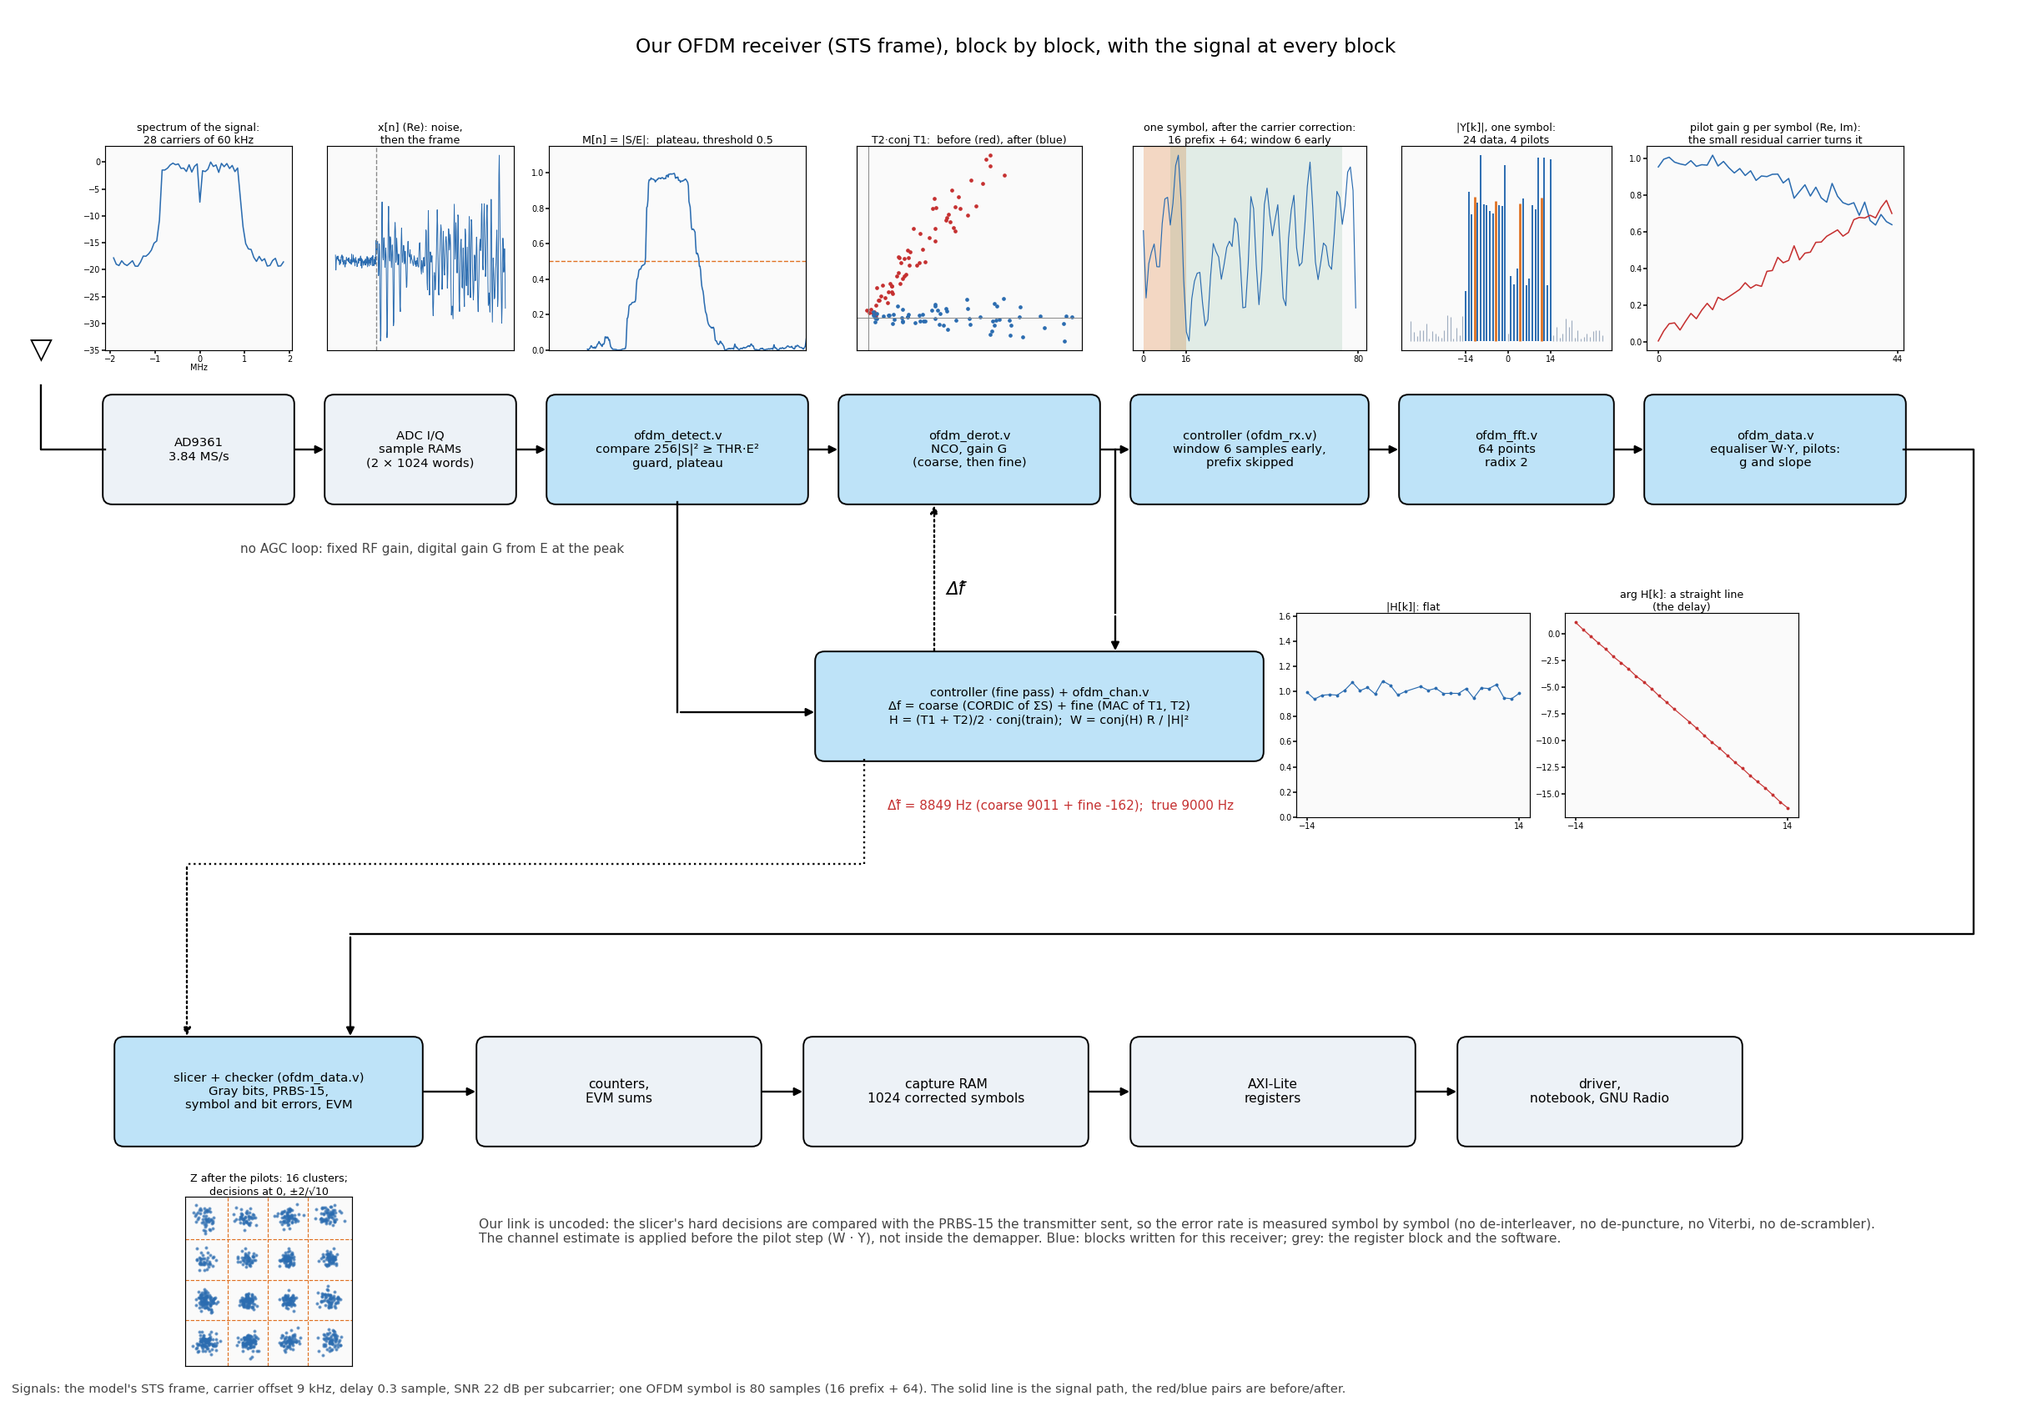
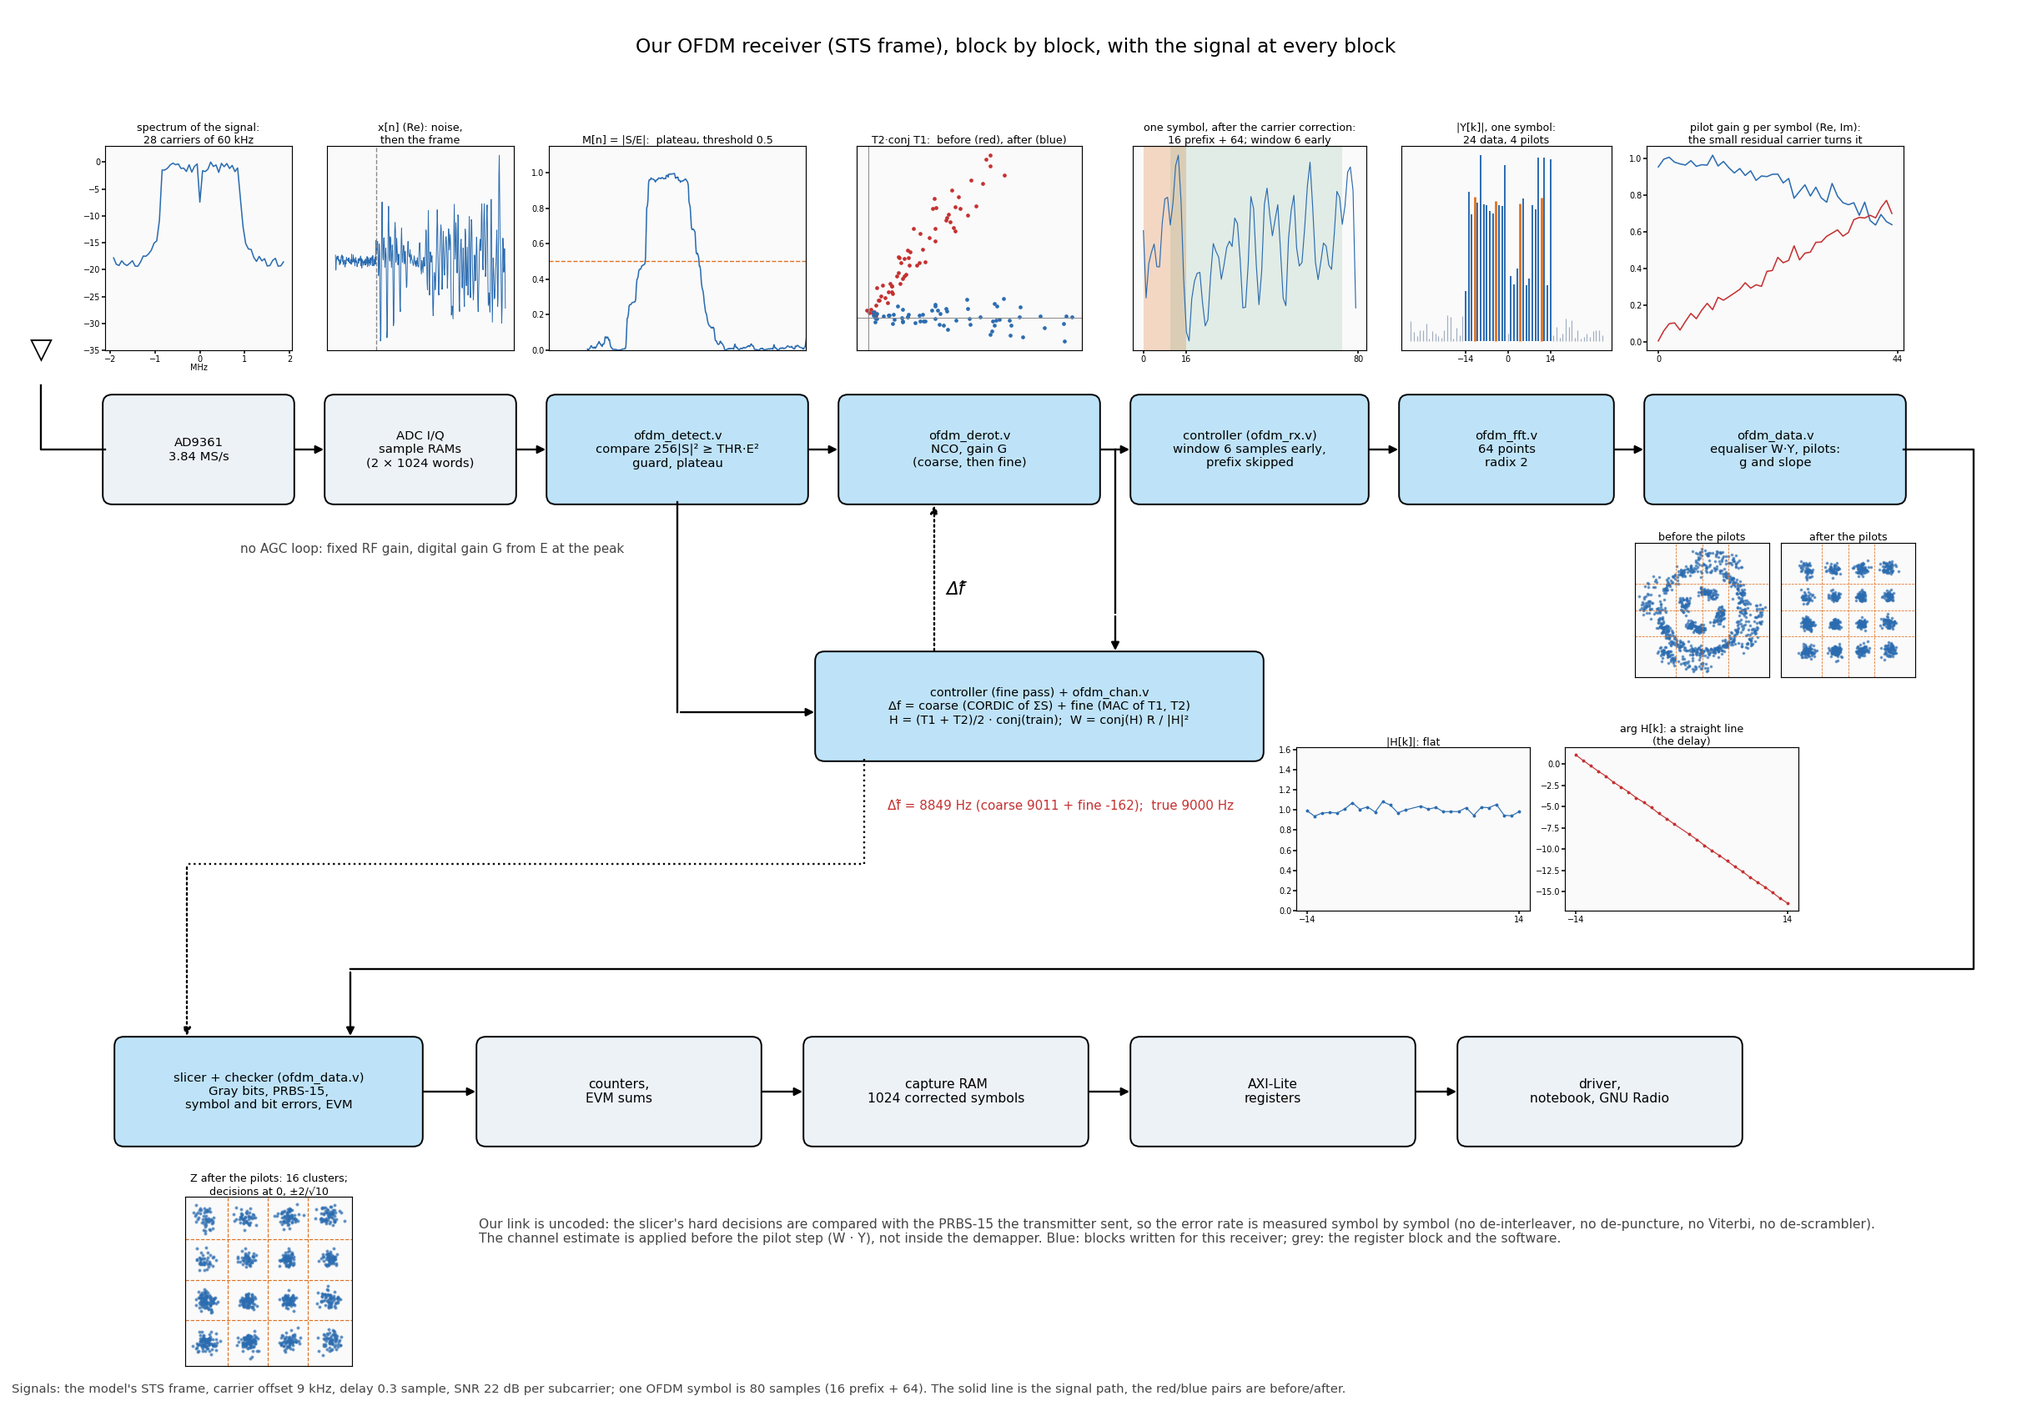
Receiver diagrams with the constellation before and after the pilot step under the pilot block (A.0), and the FPGA block diagram of A.9 redrawn with the signal at every block (detector metric, fine-carrier products, symbol and window, FFT, H, pilot gain, constellations, decision error); figure code 

diff --git a/tutorial/ofdm/make_figures_ofdm_diagrams.py b/tutorial/ofdm/make_figures_ofdm_diagrams.py
@@ -1,7 +1,7 @@
 #!/usr/bin/env python3
 """Block diagrams of tutorial 6, A.4b and A.6, each block with a small plot of the signal at that point.
 The signals come from the model: an STS frame (ofdm_model.tx_frame, 'sts16') through a channel with a carrier offset of 9 kHz, a fractional delay and noise at 22 dB per subcarrier, 100 samples of noise in front of the frame.
-    python3 make_figures_ofdm_diagrams.py        writes ofdm_t_detector_textbook.png, ofdm_t_detector.png, ofdm_t_fine_cfo_textbook.png, ofdm_t_fine_cfo.png, ofdm_t_rx_textbook.png, ofdm_t_rx_ours.png in ../img"""
+    python3 make_figures_ofdm_diagrams.py        writes ofdm_t_detector_textbook.png, ofdm_t_detector.png, ofdm_t_fine_cfo_textbook.png, ofdm_t_fine_cfo.png, ofdm_t_rx_textbook.png, ofdm_t_rx_ours.png, ofdm_t_block_rx.png in ../img"""
 import os, sys
 import numpy as np
 import matplotlib; matplotlib.use("Agg")
@@ -215,26 +215,25 @@ def fig_fine_cfo():
 
 
 # ---------------------------------------------------------------- 5. and 6. the whole receiver: the textbook block diagram and ours
-def make_rx_signals():
-    rng = np.random.default_rng(6)
-    x, d = Fm.tx_frame(preamble="sts16"); y = Fm.channel(x, SNR, cfo_hz=CFO, tau=0.3, lead=LEAD, trail=60, rng=rng)
-    R = Fm.receive(y, track="complex", return_all=True); Z0 = Fm.receive(y, track="none", return_all=True)["Z"]
+def make_rx_signals(pre="sts16"):
+    sc = pre == "sc"; PL = 80 if sc else 128; lag, win = (32, 32) if sc else (16, 48); rng = np.random.default_rng(6)
+    x, d = Fm.tx_frame(preamble=pre); y = Fm.channel(x, SNR, cfo_hz=CFO, tau=0.3, lead=LEAD, trail=60, rng=rng)
+    R = Fm.receive(y, track="complex", return_all=True, sync=pre); Z0 = Fm.receive(y, track="none", return_all=True, sync=pre)["Z"]
     s0, f = R["s0"], R["f"]; n = np.arange(len(y)); xr = y * np.exp(-2j * np.pi * f / FS * (n - s0))
-    t1 = s0 + 128 + 2 * Fm.CP - Fm.BACK
+    t1 = s0 + PL + 2 * Fm.CP - Fm.BACK
     pb = y[t1 + 64:t1 + 128] * np.conj(y[t1:t1 + 64]); pa = xr[t1 + 64:t1 + 128] * np.conj(xr[t1:t1 + 64])
-    base = s0 + 128 + Fm.LTS_LEN; st = base + 10 * Fm.SYM
+    base = s0 + PL + Fm.LTS_LEN; st = base + 10 * Fm.SYM
     Y = np.fft.fftshift(np.fft.fft(xr[st + Fm.CP - Fm.BACK:st + Fm.CP - Fm.BACK + 64]) / 8)
     w = y[LEAD:LEAD + 3840]; P = np.mean(np.abs(np.fft.fft(w.reshape(-1, 64), axis=1)) ** 2, axis=0)
-    M, _ = Fm.timing_metric(y, 16)
+    M, _ = Fm.timing_metric(y, lag, win)
     return dict(y=y, R=R, Z0=Z0, Z=R["Z"], xr=xr, pb=pb, pa=pa, sym=xr[st:st + Fm.SYM], Y=Y, P=np.fft.fftshift(P), M=M, s0=s0, d=d)
 
 
-RXS = None
+RXS = {}
 
 
 def fig_rx(ours):
-    global RXS
-    RXS = RXS or make_rx_signals(); S = RXS; y = S["y"]; R = S["R"]; BL = C["fpga"]; GR = "#edf2f7"; DG = "#a0aec0"
+    S = RXS.setdefault("sts16", make_rx_signals("sts16")); y = S["y"]; R = S["R"]; BL = C["fpga"]; GR = "#edf2f7"; DG = "#a0aec0"
     cv = Canvas(17.4, 12.0, (17.4, 12.0)); fb = BL if ours else "white"
     # ---- top row: x, width, text
     top = [(0.9, 1.6, "AD9361\n3.84 MS/s" if ours else "Radio Rx", GR if ours else "white"),
@@ -261,7 +260,7 @@ def fig_rx(ours):
     else:
         cv.text(3.7, 7.35, "no AGC loop: fixed RF gain, digital gain G from E at the peak", fontsize=7.8, ha="center", va="top", color="#444")
     # ---- the data path and the estimator's output go to the demapper
-    cv.line([16.3, 16.9, 16.9, 3.0], [yc, yc, 4.0, 4.0]); cv.arrow(3.0, 4.0, 3.0, 3.1)
+    cv.line([16.3, 16.9, 16.9, 3.0], [yc, yc, 3.7, 3.7]); cv.arrow(3.0, 3.7, 3.0, 3.1)
     cv.line([7.4, 7.4, 1.6], [ey, 4.6, 4.6], ls=":"); cv.arrow(1.6, 4.6, 1.6, 3.1, ls=":")
     f_txt = "Δf̂ = %.0f Hz (coarse %.0f + fine %.0f);  true 9000 Hz" % (R["f"], R["f_c"], R["f_f"])
     cv.text(7.6, 5.1, f_txt, fontsize=7.8, va="center", color=C["im"])
@@ -289,8 +288,12 @@ def fig_rx(ours):
     a = ins(12.0, 9.0, 1.8, 1.75, "|Y[k]|, one symbol:\n24 data, 4 pilots"); k = np.arange(-32, 32); Yk = np.abs(S["Y"]); ku = np.array([kk in Fm.USED for kk in k]); kp = np.array([kk in Fm.PIL for kk in k])
     a.vlines(k[ku & ~kp], 0, Yk[ku & ~kp], color=C["re"], lw=1); a.vlines(k[kp], 0, Yk[kp], color=C["sc"], lw=1.4); a.vlines(k[~ku], 0, Yk[~ku], color=C["grey"], lw=0.6); a.set_yticks([]); a.set_xticks([-14, 0, 14])
     g = R["gains"]; a = ins(14.1, 9.0, 2.2, 1.75, "pilot gain g per symbol (Re, Im):\nthe small residual carrier turns it"); a.plot(g.real, color=C["re"], lw=0.8); a.plot(g.imag, color=C["im"], lw=0.8); a.set_xticks([0, 44])
-    a = ins(11.1, 5.0, 2.0, 1.75, "|H[k]|: flat"); H = R["H"]; a.plot(Fm.USED, np.abs(H), ".-", color=C["re"], ms=2, lw=0.6); a.set_ylim(0, 1.5 * np.abs(H).max()); a.set_xticks([-14, 14])
-    a = ins(13.4, 5.0, 2.0, 1.75, "arg H[k]: a straight line\n(the delay)"); a.plot(Fm.USED, np.unwrap(np.angle(H)), ".-", color=C["im"], ms=2, lw=0.6); a.set_xticks([-14, 14])
+    a = ins(11.1, 4.2, 2.0, 1.4, "|H[k]|: flat"); H = R["H"]; a.plot(Fm.USED, np.abs(H), ".-", color=C["re"], ms=2, lw=0.6); a.set_ylim(0, 1.5 * np.abs(H).max()); a.set_xticks([-14, 14])
+    a = ins(13.4, 4.2, 2.0, 1.4, "arg H[k]: a straight line\n(the delay)"); a.plot(Fm.USED, np.unwrap(np.angle(H)), ".-", color=C["im"], ms=2, lw=0.6); a.set_xticks([-14, 14])
+    for x0, Zc, tl in ((14.0, S["Z0"], "before the pilots"), (15.25, S["Z"], "after the pilots")):
+        a = ins(x0, 6.2, 1.15, 1.15, tl); a.scatter(Zc.real.ravel(), Zc.imag.ravel(), s=0.8, color=C["re"], alpha=0.6); a.set_xlim(-1.6, 1.6); a.set_ylim(-1.6, 1.6)
+        for v in (-2 / np.sqrt(10), 0, 2 / np.sqrt(10)): a.axvline(v, color=C["sc"], lw=0.4, ls="--"); a.axhline(v, color=C["sc"], lw=0.4, ls="--")
+        a.set_aspect("equal"); a.set_xticks([]); a.set_yticks([])
     Z = S["Z"]; a = ins(1.2, 0.3, 2.2, 1.45, "Z after the pilots: 16 clusters;\ndecisions at 0, ±2/√10"); a.scatter(Z.real.ravel(), Z.imag.ravel(), s=1.2, color=C["re"], alpha=0.6)
     for v in (-2 / np.sqrt(10), 0, 2 / np.sqrt(10)): a.axvline(v, color=C["sc"], lw=0.6, ls="--"); a.axhline(v, color=C["sc"], lw=0.6, ls="--")
     a.set_aspect("equal"); a.set_xticks([]); a.set_yticks([])
@@ -307,8 +310,47 @@ def fig_rx(ours):
     cv.save("ofdm_t_rx_ours.png" if ours else "ofdm_t_rx_textbook.png")
 
 
+# ---------------------------------------------------------------- 7. the receiver in the FPGA (A.9), with the signal at every block
+def fig_block_rx():
+    S = RXS.setdefault("sc", make_rx_signals("sc")); y = S["y"]; R = S["R"]; BL, OLD = C["fpga"], C["old"]; n = np.arange(len(y))
+    cv = Canvas(13.4, 8.4, (13.4, 8.4), y0=-2.2)
+    cv.text(6.7, 7.9, "The receiver in the FPGA (S&C overlay; blue: new for OFDM; grey: as in the earlier overlays), with the signal at every block", fontsize=11, ha="center", va="center")
+    cv.box(0.1, 3.6, 1.7, 1.2, "ADC 3.84 MS/s\nsample RAMs (two\n1024-word, clock\ncrossing)", OLD, 8)
+    cv.box(2.2, 3.6, 2.1, 1.2, "ofdm_detect.v\nS&C: 32 products,\nplateau of M,\nCORDIC: coarse w,\ngain G", BL, 8)
+    cv.box(4.7, 3.6, 2.0, 1.2, "controller (ofdm_rx.v)\nwait for T2, fine w\nfrom T1 and T2,\nT1/T2 check,\nwindow addresses", BL, 8)
+    cv.box(7.1, 3.6, 1.8, 1.2, "ofdm_derot.v\nNCO, gain,\nderotation\n(latency 7)", BL, 8)
+    cv.box(9.3, 3.6, 1.7, 1.2, "ofdm_fft.v\n64 points,\nradix 2,\n768 clocks", BL, 8)
+    cv.box(11.3, 3.6, 1.6, 1.2, "ofdm_chan.v\nH from T1 + T2,\nnoise, weights\nW = conj(H) R/|H|²", BL, 8)
+    cv.box(1.4, 1.2, 3.2, 1.5, "ofdm_data.v (per data symbol, 175 + 333 clocks)\nequaliser W Y, pilot gain g and slope\n(CORDIC), 5-symbol average, correction", BL, 8)
+    cv.box(5.0, 1.2, 2.6, 1.5, "slicer and checker\nGray bits, PRBS-15,\nsymbol and bit errors,\nEVM sums", BL, 8)
+    cv.box(8.0, 1.2, 2.5, 1.5, "capture RAM (1024 soft\nsymbols), H copy,\ncounters", OLD, 8); cv.box(10.9, 1.2, 2.0, 1.5, "AXI-Lite\nregisters\n(driver, notebook)", OLD, 8)
+    for a, b in ((1.8, 2.2), (4.3, 4.7), (6.7, 7.1), (8.9, 9.3), (11.0, 11.3)): cv.arrow(a, 4.2, b, 4.2)
+    cv.arrow(12.1, 3.6, 4.0, 2.7); cv.arrow(10.15, 3.6, 3.2, 2.7); cv.arrow(4.6, 1.95, 5.0, 1.95); cv.arrow(7.6, 1.95, 8.0, 1.95); cv.arrow(10.5, 1.95, 10.9, 1.95)
+    # the signals above the first row
+    yy, hh = 5.2, 1.7; tt = np.arange(64); def_ = lambda a: (a.set_xticks([]), a.set_yticks([]))
+    a = cv.inset(0.1, yy, 1.7, hh, "x[n] (Re): noise,\nthen the frame"); a.plot(n[:420], y.real[:420], color=C["re"], lw=0.5); a.axvline(LEAD, color=C["ref"], lw=0.7, ls="--"); def_(a)
+    a = cv.inset(2.2, yy, 2.1, hh, "M = |S|²/E²: plateau\n(17 windows), threshold"); a.plot(np.arange(len(S["M"])) + 63, S["M"], color=C["re"], lw=0.8); a.axhline(0.5, color=C["sc"], lw=0.7, ls="--"); a.set_xlim(0, 420); a.set_ylim(0, 1.15); a.set_xticks([])
+    sc = np.mean(np.abs(S["pb"])); a = cv.inset(4.9, yy, 1.6, hh, "T2·conj T1: before (red),\nafter (blue) the fine w")
+    a.scatter(S["pb"].real / sc, S["pb"].imag / sc, s=2, color=C["im"]); a.scatter(S["pa"].real / sc, S["pa"].imag / sc, s=2, color=C["re"]); a.axhline(0, color=C["ref"], lw=0.5); a.axvline(0, color=C["ref"], lw=0.5); a.set_aspect("equal"); def_(a)
+    a = cv.inset(7.1, yy, 1.8, hh, "one symbol after the\nderotation: prefix + window"); a.plot(np.arange(80), S["sym"].real, color=C["re"], lw=0.6); a.axvspan(0, 16, color=C["sc"], alpha=0.25, lw=0); a.axvspan(Fm.CP - Fm.BACK, Fm.CP - Fm.BACK + 64, color=C["tr"], alpha=0.12, lw=0); a.set_xticks([0, 16, 80]); a.set_yticks([])
+    a = cv.inset(9.3, yy, 1.7, hh, "|Y[k]|: 24 data,\n4 pilots"); k = np.arange(-32, 32); Yk = np.abs(S["Y"]); ku = np.array([kk in Fm.USED for kk in k]); kp = np.array([kk in Fm.PIL for kk in k])
+    a.vlines(k[ku & ~kp], 0, Yk[ku & ~kp], color=C["re"], lw=1); a.vlines(k[kp], 0, Yk[kp], color=C["sc"], lw=1.4); a.vlines(k[~ku], 0, Yk[~ku], color=C["grey"], lw=0.6); a.set_yticks([]); a.set_xticks([-14, 0, 14])
+    H = R["H"]; a = cv.inset(11.5, yy, 1.5, hh, "H[k]: |H| (blue),\narg H (red)"); a.plot(Fm.USED, np.abs(H), color=C["re"], lw=0.8); a.set_ylim(0, 1.6 * np.abs(H).max()); a.set_xticks([-14, 14]); a.set_yticks([])
+    b = a.twinx(); b.plot(Fm.USED, np.unwrap(np.angle(H)), color=C["im"], lw=0.8); b.set_yticks([]); b.tick_params(length=0)
+    # the signals under the second row
+    g = R["gains"]; a = cv.inset(0.9, -1.1, 1.5, 1.8, "pilot gain g per symbol\n(Re, Im)"); a.plot(g.real, color=C["re"], lw=0.8); a.plot(g.imag, color=C["im"], lw=0.8); a.set_xticks([0, 44])
+    for x0, Zc, tl in ((2.65, S["Z0"], "before the pilots"), (4.15, S["Z"], "after the pilots")):
+        a = cv.inset(x0, -1.1, 1.3, 1.8, tl); a.scatter(Zc.real.ravel(), Zc.imag.ravel(), s=0.8, color=C["re"], alpha=0.6); a.set_xlim(-1.6, 1.6); a.set_ylim(-1.6, 1.6)
+        for v in (-2 / np.sqrt(10), 0, 2 / np.sqrt(10)): a.axvline(v, color=C["sc"], lw=0.4, ls="--"); a.axhline(v, color=C["sc"], lw=0.4, ls="--")
+        a.set_aspect("equal"); a.set_xticks([]); a.set_yticks([])
+    Z = S["Z"]; err = Z - Fm.hard(Z); a = cv.inset(5.9, -1.1, 1.5, 1.8, "decision error Z − decision\n(what the EVM sums add)"); a.scatter(err.real.ravel(), err.imag.ravel(), s=0.8, color=C["im"], alpha=0.6); a.axhline(0, color=C["ref"], lw=0.5); a.axvline(0, color=C["ref"], lw=0.5); a.set_aspect("equal"); def_(a)
+    cv.text(8.0, -0.4, "Signals: the model's S&C frame, carrier offset 9 kHz,\ndelay 0.3 sample, SNR 22 dB per subcarrier. The constellations:\nthe 24 data subcarriers of the 44 symbols; dashed: the\ndecision thresholds 0, ±2/√10.", fontsize=7.8, color="#444", va="center")
+    cv.text(0.1, -1.95, "A frame is found while the previous one is still being finished: the detector re-arms as soon as its last window has been read. Every block is bit-exact against ofdm_fixed.py.", fontsize=9, va="center")
+    cv.save("ofdm_t_block_rx.png")
+
+
 if __name__ == "__main__":
-    for f in (fig_detector_textbook, fig_detector, fig_fine_cfo_textbook, fig_fine_cfo, lambda: fig_rx(False), lambda: fig_rx(True)):
+    for f in (fig_detector_textbook, fig_detector, fig_fine_cfo_textbook, fig_fine_cfo, lambda: fig_rx(False), lambda: fig_rx(True), fig_block_rx):
         try: f(); print("ok", getattr(f, "__name__", "fig_rx"))
         except Exception as e:
             import traceback; print("FAILED", f.__name__, repr(e)); traceback.print_exc()

diff --git a/tutorial/ofdm/make_figures_ofdm_tutorial.py b/tutorial/ofdm/make_figures_ofdm_tutorial.py
@@ -278,22 +278,6 @@ def fig_equalizer():
     fig.tight_layout(); fig.savefig(os.path.join(IMG, "ofdm_t_equalizer.png"), dpi=130); plt.close(fig)
 
 # ---------------------------------------------------------------- 8. the receiver in the FPGA, as built
-def fig_block_rx():
-    fig, ax = plt.subplots(figsize=(13, 5.2)); ax.set_xlim(0, 13); ax.set_ylim(0, 5.2); ax.axis("off")
-    box(ax, 0.1, 3.6, 1.7, 1.2, "ADC 3.84 MS/s\nsample RAMs (two\n1024-word, clock\ncrossing)", C["old"], 8)
-    box(ax, 2.2, 3.6, 2.1, 1.2, "ofdm_detect.v\nS&C: 32 products,\nplateau of M,\nCORDIC: coarse w,\ngain G", C["fpga"], 8)
-    box(ax, 4.7, 3.6, 2.0, 1.2, "controller (ofdm_rx.v)\nwait for T2, fine w\nfrom T1 and T2,\nT1/T2 check,\nwindow addresses", C["fpga"], 8)
-    box(ax, 7.1, 3.6, 1.8, 1.2, "ofdm_derot.v\nNCO, gain,\nderotation\n(latency 7)", C["fpga"], 8)
-    box(ax, 9.3, 3.6, 1.7, 1.2, "ofdm_fft.v\n64 points,\nradix 2,\n768 clocks", C["fpga"], 8)
-    box(ax, 11.3, 3.6, 1.6, 1.2, "ofdm_chan.v\nH from T1 + T2,\nnoise, weights\nW = conj(H) R/|H|^2", C["fpga"], 8)
-    box(ax, 1.4, 1.2, 3.2, 1.5, "ofdm_data.v (per data symbol, 175 + 333 clocks)\nequaliser W Y, pilot gain g and slope\n(CORDIC), 5-symbol average, correction", C["fpga"], 8)
-    box(ax, 5.0, 1.2, 2.6, 1.5, "slicer and checker\nGray bits, PRBS-15,\nsymbol and bit errors,\nEVM sums", C["fpga"], 8)
-    box(ax, 8.0, 1.2, 2.5, 1.5, "capture RAM (1024 soft\nsymbols), H copy,\ncounters", C["old"], 8); box(ax, 10.9, 1.2, 2.0, 1.5, "AXI-Lite\nregisters\n(driver, notebook)", C["old"], 8)
-    for a, b in ((1.8, 2.2), (4.3, 4.7), (6.7, 7.1), (8.9, 9.3), (11.0, 11.3)): arrow(ax, a, 4.2, b, 4.2)
-    arrow(ax, 12.1, 3.6, 4.0, 2.7); arrow(ax, 10.15, 3.6, 3.2, 2.7); arrow(ax, 4.6, 1.95, 5.0, 1.95); arrow(ax, 7.6, 1.95, 8.0, 1.95); arrow(ax, 10.5, 1.95, 10.9, 1.95)
-    ax.text(0.2, 0.5, "A frame is found while the previous one is still being finished: the detector re-arms as soon as its last window has been read. Every block is bit-exact against ofdm_fixed.py.", fontsize=9)
-    ax.set_title("The receiver in the FPGA (blue: new for OFDM; grey: as in the earlier overlays)", fontsize=11); fig.tight_layout(); fig.savefig(os.path.join(IMG, "ofdm_t_block_rx.png"), dpi=130); plt.close(fig)
-
 # ---------------------------------------------------------------- 9. the receiver in GNU Radio
 def fig_grc():
     fig, ax = plt.subplots(figsize=(14, 5.6)); ax.set_xlim(0, 14); ax.set_ylim(0, 5.6); ax.axis("off")
@@ -319,7 +303,7 @@ def fig_grc():
 # ---------------------------------------------------------------- the textbook fine-carrier estimator (two identical symbols)
 
 if __name__ == "__main__":
-    for f in (fig_method, fig_frame, fig_symbol, fig_ifft, fig_cp, fig_tx, fig_guard, fig_block_rx, fig_grc, fig_sc, fig_cfo, fig_equalizer, fig_sts, fig_sts_metric, fig_frame_sts):
+    for f in (fig_method, fig_frame, fig_symbol, fig_ifft, fig_cp, fig_tx, fig_guard, fig_grc, fig_sc, fig_cfo, fig_equalizer, fig_sts, fig_sts_metric, fig_frame_sts):
         try: f(); print("ok", f.__name__)
         except Exception as e:
             import traceback; print("FAILED", f.__name__, repr(e)); traceback.print_exc()

diff --git a/tutorial/TUTORIAL_OFDM.md b/tutorial/TUTORIAL_OFDM.md
@@ -46,7 +46,7 @@ Our receiver is the same diagram, cut off at the demapper, with the module that 
 Three differences from the textbook are worth reading the figure for:
 
 * **No AGC loop.** The radio gain is set by hand (`rx_gain` in the scripts, C.3) and the receiver scales the samples digitally; the loop in the textbook figure is dotted for that reason.
-* **The equaliser comes before the pilot step.** The textbook puts the channel estimate into the demapper; here `W = conj(H) R / |H|^2` is applied to every subcarrier first, and the pilots then correct only what the training could not know (the gain `g` in the top right plot slowly turns, because the carrier estimate still has an error of some hundred hertz).
+* **The equaliser comes before the pilot step.** The textbook puts the channel estimate into the demapper; here `W = conj(H) R / |H|^2` is applied to every subcarrier first, and the pilots then correct only what the training could not know (the gain `g` in the top right plot slowly turns, because the carrier estimate still has an error of some hundred hertz: the constellation under the pilot block is a set of rings before the pilot step and 16 clusters after it).
 * **The estimators run before the data.** The carrier offset comes from the training fields at the start of the frame, so the data symbols are corrected as they arrive, and nothing needs to be fed back.
 
 ## A.1 Method
